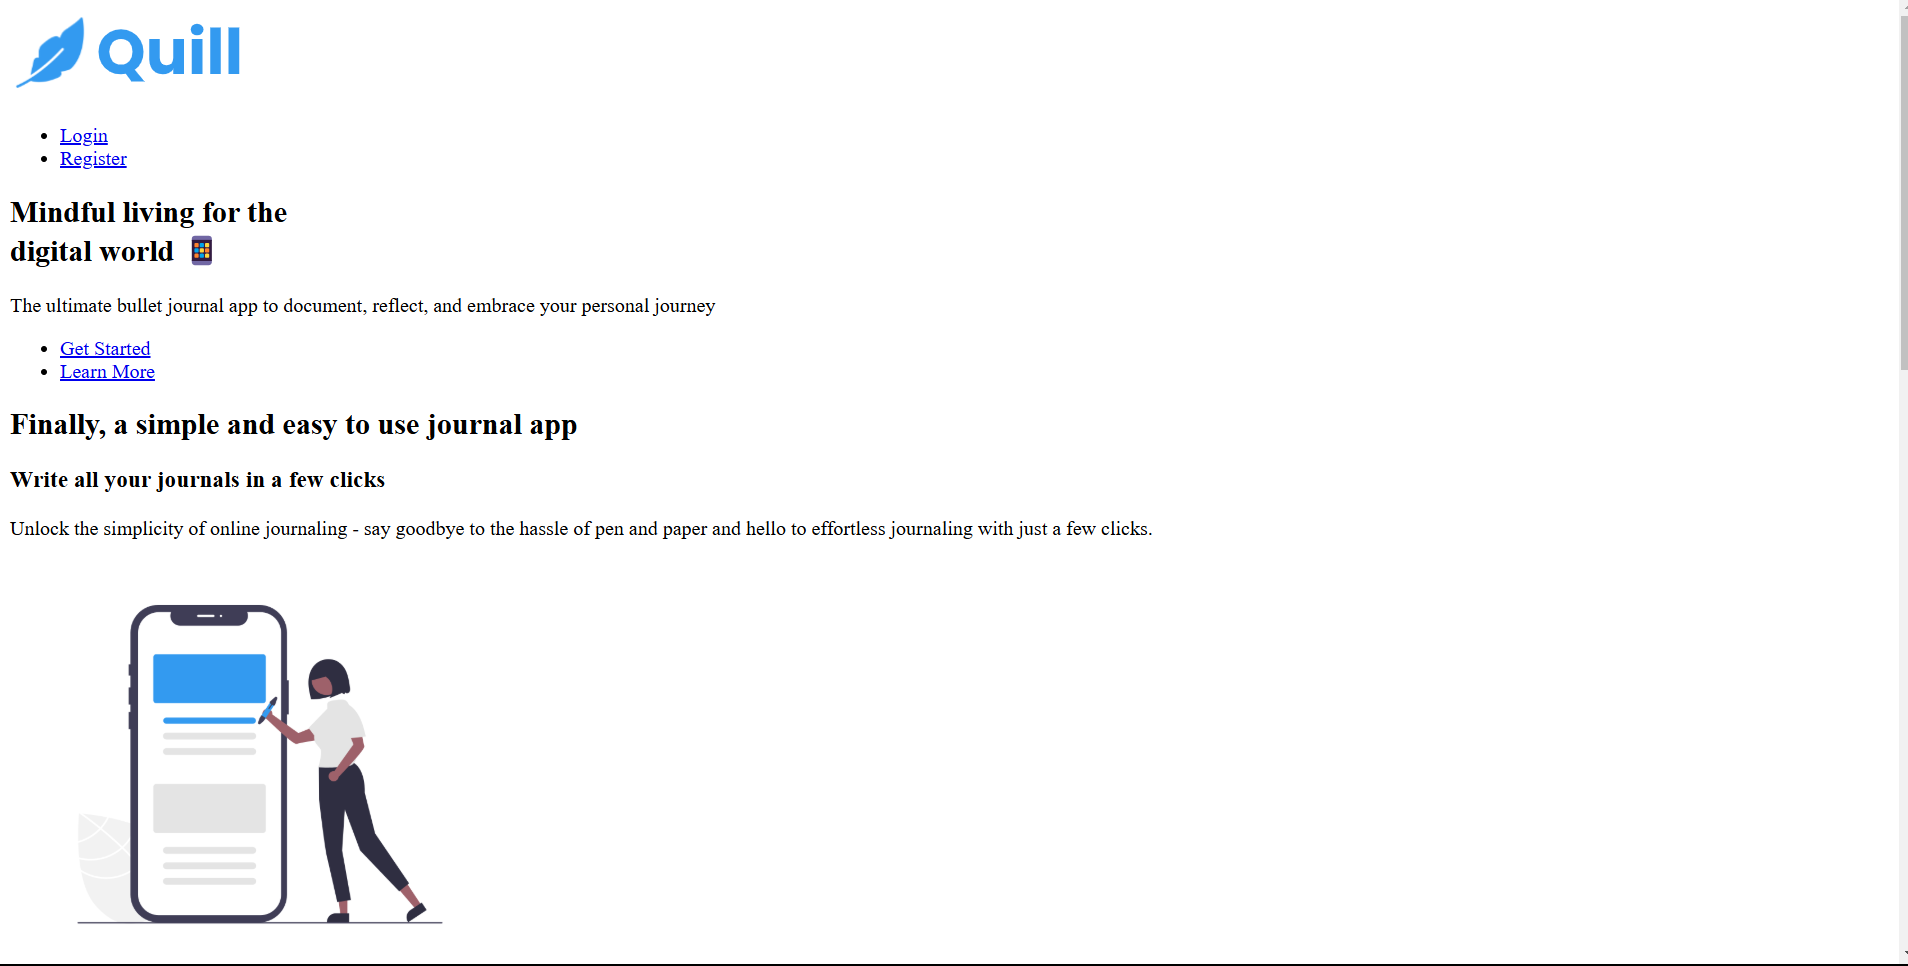
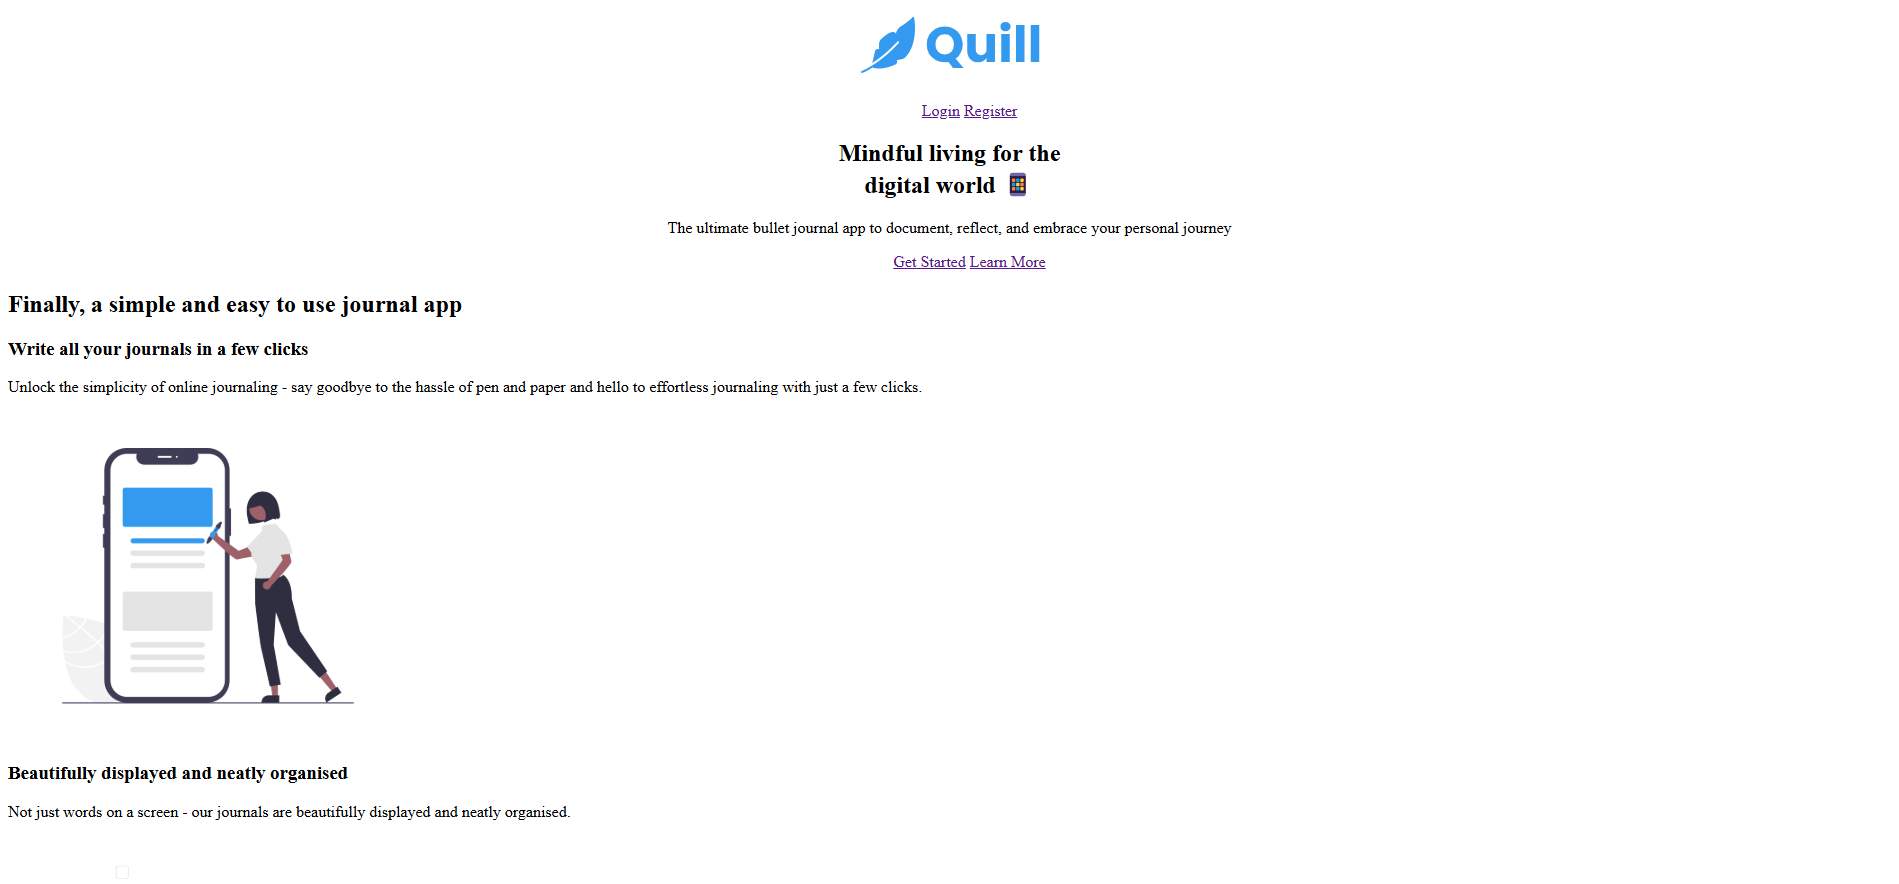
added project screenshots

diff --git a/Quill/index.html b/Quill/index.html
@@ -8,7 +8,7 @@
     <title>Quill</title>
 </head>
 <body>
-    <header  >
+    <header  class="s1" >
         <!-- NAVIGATION SECTION -->
        <a href="index.html"><img src="images/quill.svg" alt= "quill logo" ></a>
        <nav>
@@ -19,7 +19,7 @@
        </nav>
 
        <!-- HERO SECTION -->
-        <section>
+        <section class="s1">
            <h1>Mindful living for the <br>digital world 📱</h1>
            <p>The ultimate bullet journal app to document, reflect, and embrace your personal journey</p>
            <ul>
@@ -50,7 +50,7 @@
             </div>
         </section>
          <!-- CTA SECTION -->
-         <section >
+         <section class="s1" >
             <div>
                 <h2>Get Started Now</h2>
                 <a href="register.html">Get Started</a>
@@ -61,7 +61,7 @@
     </main>
 
       <!-- FOOTER -->
-      <footer  >
+      <footer  class="s1">
         <div  >
             <ul>
                 <li><a href="https://www.instagram.com/"><img src="images/instagram.svg" alt="instagram" width="20px"></a></li>

diff --git a/Quill/style.css b/Quill/style.css
@@ -1,3 +1,6 @@
 li{
     display: inline-block;
 }
+.s1{
+    text-align:center;
+}

diff --git a/Quill/readme.md b/Quill/readme.md
@@ -4,10 +4,9 @@
 <p> Quill is a journal taking web application. </p>
 
 <h3>Project Screenshot</h3>
-<img src="images/quillss1.png" alt="screenshot" width="80%">
-<img src="images/quillss2.png" alt="screenshot" width="80%">
-<img src="images/quillss3.png" alt="screenshot" width="80%">                            
-
+<img src="images/quillSS1.png" alt="screenshot" width="80%">
+<img src="images/quillSS2.png" alt="screenshot" width="80%">
+ 
 <h3> Features</h3>
 <ul>
     <li>Navigation</li>
